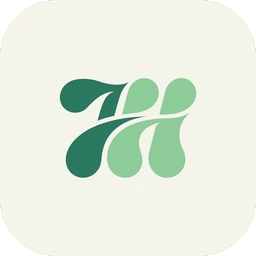
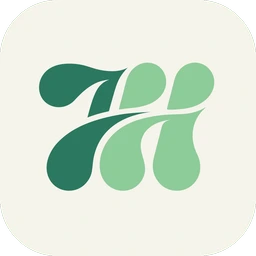
Login card: updated TruHost mark with a larger monogram
Same cream tile, with the green monogram filling more of it so it reads at
56 px. 256 px WebP, 7 KB, transparent corners.

Changed region(s): [[0.125, 0.2188, 0.8438, 0.75]]

diff --git a/docs/spec.md b/docs/spec.md
@@ -2077,4 +2077,4 @@ UI, and a "needs financials" queue.
 | 2026-11-19 | Sign-in background in 4K: the loop is now AV1 at 3840×2160 (`public/login/login-loop.webm`, SVT-AV1 CRF 30, 2.7 MB) listed first, with H.264 at 2560×1440 (`login-loop.mp4`, CRF 19, faststart, 4.0 MB) as the fallback; no audio in either. The browser plays the first it can decode. Replaces the 1080p loop, which looked soft when stretched on high-density screens. Poster, reduced-motion still, pausing when hidden and the portrait framing are unchanged.                                                                                                                                                                                                                                                                                                                                                                                                                                                                                                                                                                                                                                                                                                                                                                                                                                                                  |
 | 2026-11-19 | Sign-in background at 60 fps: a single H.264 MP4, `public/login/login-loop.mp4` (2560×1440, 60 fps, CRF 19, faststart, no audio, 4.8 MB), made from a new 60 fps 4K render with its last frame dropped (592 of 593) so the loop doesn't show a frame twice. The AV1 WebM is gone; the MP4 is the only source. Poster, reduced-motion still, pausing when hidden and the portrait framing are unchanged.                                                                                                                                                                                                                                                                                                                                                                                                                                                                                                                                                                                                                                                                                                                                                                                                                                                                                                                               |
 | 2026-11-19 | Sign-in card is light frosted glass instead of the near-opaque panel from `docs/design/Login.dc.html`: about 40–60% white with a 22px blur, so the background's sky and sunset tint it. Fields and the Google button are translucent white, muted text and rules are a shade darker inside the card for contrast, and browser autofill keeps the pale glass rather than turning the fields blue. Near-opaque when the browser can't blur or the person prefers reduced transparency. Layout, sizes and the green button are unchanged.                                                                                                                                                                                                                                                                                                                                                                                                                                                                                                                                                                                                                                                                                                                                                                                                |
-| 2026-11-19 | Sign-in card's icon is the new TruHost mark (a cream tile with the green monogram, `apps/web/src/assets/brand/login-mark.webp`, 256 px, 6 KB) instead of the drawn night-scene `LogoMark`. Only the login card changes; the sidebar logo and favicon keep `LogoMark` for now.                                                                                                                                                                                                                                                                                                                                                                                                                                                                                                                                                                                                                                                                                                                                                                                                                                                                                                                                                                                                                                                         |
+| 2026-11-19 | Sign-in card's icon is the new TruHost mark (a cream tile with the green monogram, `apps/web/src/assets/brand/login-mark.webp`, 256 px, 7 KB) instead of the drawn night-scene `LogoMark`. Only the login card changes; the sidebar logo and favicon keep `LogoMark` for now.                                                                                                                                                                                                                                                                                                                                                                                                                                                                                                                                                                                                                                                                                                                                                                                                                                                                                                                                                                                                                                                         |
